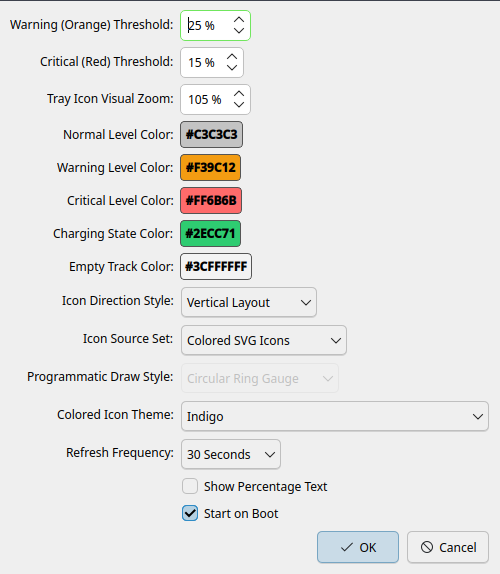
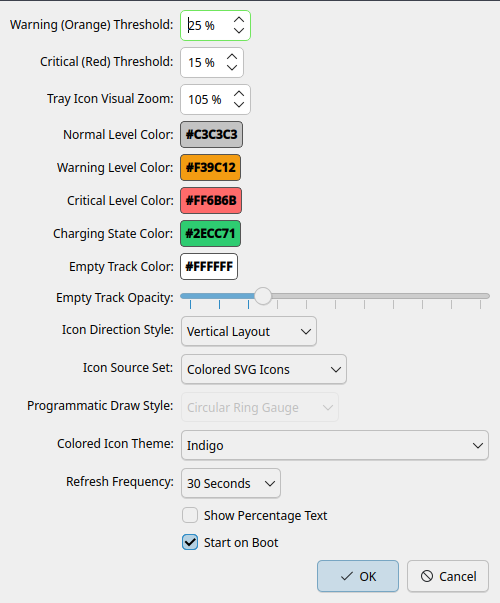
Add dedicated Empty Track Opacity slider and simplify color picker logic

Changed region(s): [[0.0, 0.0, 0.99, 0.622], [0.03, 0.6516, 0.99, 0.9181], [0.63, 0.9181, 0.96, 1.0]]

diff --git a/logitech_battery.py b/logitech_battery.py
@@ -139,7 +139,7 @@ class SettingsDialog(QtWidgets.QDialog):
         self.color_warning_val = self.app.color_warning
         self.color_critical_val = self.app.color_critical
         self.color_charging_val = self.app.color_charging
-        self.color_empty_val = getattr(self.app, "color_empty", "#3CFFFFFF")
+        self.color_empty_val = getattr(self.app, "color_empty", "#FFFFFF")
 
         self.btn_color_normal = QtWidgets.QPushButton(self.color_normal_val)
         self.btn_color_warning = QtWidgets.QPushButton(self.color_warning_val)
@@ -166,6 +166,13 @@ class SettingsDialog(QtWidgets.QDialog):
         self.icon_scale_spin.setSingleStep(5)
         self.icon_scale_spin.valueChanged.connect(self.apply_settings)
 
+        self.track_opacity_slider = QtWidgets.QSlider(QtCore.Qt.Orientation.Horizontal)
+        self.track_opacity_slider.setRange(0, 100)
+        self.track_opacity_slider.setValue(getattr(self.app, "track_opacity", 25))
+        self.track_opacity_slider.setTickPosition(QtWidgets.QSlider.TickPosition.TicksBelow)
+        self.track_opacity_slider.setTickInterval(10)
+        self.track_opacity_slider.valueChanged.connect(self.apply_settings)
+
         form.addRow("Warning (Orange) Threshold:", self.warning_spin)
         form.addRow("Critical (Red) Threshold:", self.critical_spin)
         form.addRow("Tray Icon Visual Zoom:", self.icon_scale_spin)
@@ -174,6 +181,7 @@ class SettingsDialog(QtWidgets.QDialog):
         form.addRow("Critical Level Color:", self.btn_color_critical)
         form.addRow("Charging State Color:", self.btn_color_charging)
         form.addRow("Empty Track Color:", self.btn_color_empty)
+        form.addRow("Empty Track Opacity:", self.track_opacity_slider)
         form.addRow("Icon Direction Style:", self.layout_combo)
         form.addRow("Icon Source Set:", self.source_combo)
         form.addRow("Programmatic Draw Style:", self.prog_style_combo)
@@ -215,16 +223,11 @@ class SettingsDialog(QtWidgets.QDialog):
     def pick_color(self, attr_name, btn_target):
         current_hex = getattr(self, attr_name)
         init_color = QtGui.QColor(current_hex)
-        if QtVariant == "PyQt5":
-            opts = QtWidgets.QColorDialog.ShowAlphaChannel | QtWidgets.QColorDialog.DontUseNativeDialog
-        else:
-            opts = QtWidgets.QColorDialog.ColorDialogOption.ShowAlphaChannel | QtWidgets.QColorDialog.ColorDialogOption.DontUseNativeDialog
-        color = QtWidgets.QColorDialog.getColor(init_color, self, "Select Status Color", opts)
+        init_color.setAlpha(255) # force color picker starting state to be solid
+        
+        color = QtWidgets.QColorDialog.getColor(init_color, self, "Select Color")
         if color.isValid():
-            if color.alpha() < 255:
-                new_hex = f"#{color.alpha():02X}{color.red():02X}{color.green():02X}{color.blue():02X}"
-            else:
-                new_hex = color.name().upper()
+            new_hex = color.name().upper()
             setattr(self, attr_name, new_hex)
             self.update_btn_style(btn_target, new_hex)
             self.apply_settings()
@@ -265,6 +268,7 @@ class SettingsDialog(QtWidgets.QDialog):
         self.app.color_critical = self.color_critical_val
         self.app.color_charging = self.color_charging_val
         self.app.color_empty = self.color_empty_val
+        self.app.track_opacity = self.track_opacity_slider.value()
         
         self.app.settings.setValue("warning_threshold", warn_val)
         self.app.settings.setValue("critical_threshold", crit_val)
@@ -281,6 +285,7 @@ class SettingsDialog(QtWidgets.QDialog):
         self.app.settings.setValue("color_critical", self.color_critical_val)
         self.app.settings.setValue("color_charging", self.color_charging_val)
         self.app.settings.setValue("color_empty", self.color_empty_val)
+        self.app.settings.setValue("track_opacity", self.app.track_opacity)
         
         self.app.toggle_autostart(autostart)
         self.app.poll_timer.setInterval(interval_val * 1000)
@@ -338,7 +343,13 @@ class LogitechBatteryTrayApp(QtWidgets.QApplication):
         self.color_warning = self.settings.value("color_warning", "#F39C12", type=str)
         self.color_critical = self.settings.value("color_critical", "#FF6B6B", type=str)
         self.color_charging = self.settings.value("color_charging", "#2ECC71", type=str)
-        self.color_empty = self.settings.value("color_empty", "#3CFFFFFF", type=str)
+        self.color_empty = self.settings.value("color_empty", "#FFFFFF", type=str)
+        
+        # Clean any old #AARRGGBB hex codes to #RRGGBB
+        if len(self.color_empty) == 9:
+            self.color_empty = "#" + self.color_empty[3:]
+            
+        self.track_opacity = self.settings.value("track_opacity", 25, type=int)
         
         # Load charged timestamp (float or None)
         self.last_charged_time = self.settings.value("last_charged_time", 0.0, type=float)
@@ -702,8 +713,10 @@ class LogitechBatteryTrayApp(QtWidgets.QApplication):
             rect = QtCore.QRectF(3, 3, 26, 26)
             stroke_w = 5.0
             
-            # Background track ring (customizable color, default to semi-transparent white)
-            track_color = QtGui.QColor(getattr(self, "color_empty", "#3CFFFFFF"))
+            # Background track ring (customizable color & opacity, default to 25% white)
+            track_color = QtGui.QColor(getattr(self, "color_empty", "#FFFFFF"))
+            track_opacity_val = getattr(self, "track_opacity", 25)
+            track_color.setAlpha(int((track_opacity_val / 100.0) * 255))
             painter.setPen(QtGui.QPen(track_color, stroke_w))
             painter.setBrush(QtCore.Qt.NoBrush)
             painter.drawArc(rect, 0, 360 * 16)
